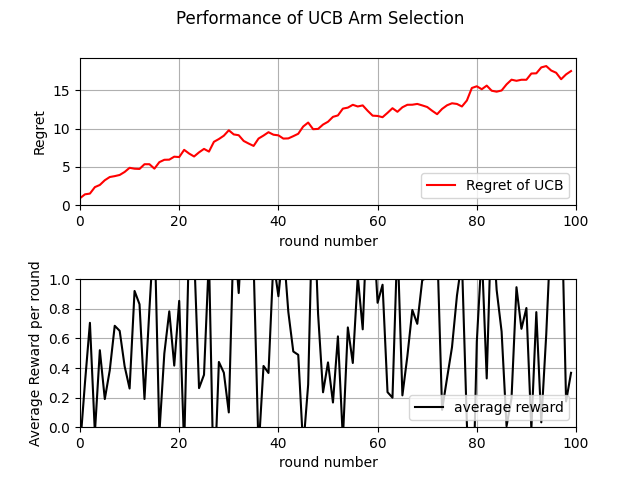
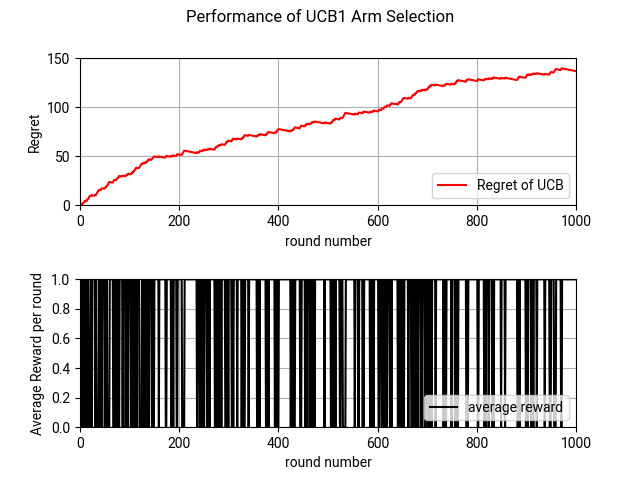
For presentation 14.Oct

diff --git a/double_loop.py b/double_loop.py
@@ -24,9 +24,9 @@ def argmax(arr):
   return arr.index(max(arr))
 
 
-def plot_regret(X, Y, cumulative_optimal_reward, cumulative_reward, average_reward_in_each_round, T):
+def plot_regret(X, Y, cumulative_optimal_reward, cumulative_reward, average_reward_in_each_round, T, algo_name):
   fig, axs = plt.subplots(2)  # get two figures, top is regret, bottom is average reward in each round
-  fig.suptitle('Performance of UCB Arm Selection')
+  fig.suptitle(f'Performance of {algo_name} Arm Selection')
   fig.subplots_adjust(hspace=0.5)
 
   axs[0].plot(X, Y, color='red', label='Regret of UCB')
@@ -106,10 +106,15 @@ def main():
   # arm10 = NormalArm(0.1, 1)
 
   arm1 = BernoulliArm(0.2)
-  arm2 = BernoulliArm(0.3)
-  arm3 = BernoulliArm(0.2)
-  arm4 = BernoulliArm(0.9)
-  arms = [arm1, arm2, arm3, arm4]
+  arm2 = BernoulliArm(0.5)
+  arm3 = BernoulliArm(0.9)
+  arm4 = BernoulliArm(0.4)
+  arm5 = BernoulliArm(0.4)
+  arm6 = BernoulliArm(0.3)
+  arm7 = BernoulliArm(0.2)
+  arm8 = BernoulliArm(0.1)
+  arms = [arm1, arm2, arm3, arm4, arm5, arm6, arm7, arm8]
+
   max_mu = max([arm.mu for arm in arms])
   n_arms = len(arms)
   print(f'Optimal arm: #{argmax([arm.mu for arm in arms]) + 1}')
@@ -123,22 +128,24 @@ def main():
   algo_exp3 = Exp3(.2, n_arms)
   algo_thompson = ThompsonSampling(n_arms)
 
-  algorithms = [algo_anneal_epsilon, algo_thompson]
+  algorithms = [algo_ucb1]
   algorithm_rewards = []  # 2D list[algo][t] (array of running avg. rewards for each algo at time-step t)
   algorithm_cum_rewards = []  # 2D list[algo][t] (array of cumulative rewards for each algo at time-step t)
   algorithm_arm_selections = []  # 2D list[algo][t] (array of arm selections for each algo at time-step t)
 
   # semi-global variables
   timesteps = 1000  # number of time-steps (T)
-  total_iteration = 10  # outer-loop
+  total_iteration = 1  # outer-loop
   reward_round_iteration = np.zeros((timesteps), dtype=int)
 
   for algo in algorithms:
+    print(algo.get_name())
     avg_rewards, cum_rewards, arm_selections = [0], [0], []
     new_avg = 0
 
     for i in range(total_iteration):
-      algo = AnnealingEpsilonGreedy(n_arms)  # reinitialize algorithm (clear previous memory)
+      # TODO: reinitialize this DYNAMICALLY!!
+      algo = UCB1(n_arms)  # reinitialize algorithm (clear previous memory)
       for t in range(timesteps):  # NOTE: 0 based? 1 based?
         chosen_arm = algo.select_arm()
         arm_selections.append(chosen_arm + 1)  # convert 0-based index to 1-based
@@ -170,7 +177,7 @@ def main():
     x_axis = np.zeros(timesteps, dtype=int)
     regrets = np.zeros(timesteps, dtype=float)  # regret for each round
 
-    print(average_reward_in_each_round)
+    # print(average_reward_in_each_round)
 
     for t in range(timesteps):
       x_axis[t] = t
@@ -179,7 +186,7 @@ def main():
       # print(f"{cumulative_optimal_reward} \t {cumulative_reward}")
       regrets[t] = cumulative_optimal_reward - cumulative_reward
 
-    plot_regret(x_axis, regrets, cumulative_optimal_reward, cumulative_reward, average_reward_in_each_round, timesteps)
+    plot_regret(x_axis, regrets, cumulative_optimal_reward, cumulative_reward, average_reward_in_each_round, timesteps, algo.get_name())
     print(f"The average regret for {algo.get_name()} is {cumulative_optimal_reward - cumulative_reward}")
 
   max_cum_reward = max([algorithm_cum_rewards[i][-1] for i in range(len(algorithms))])

diff --git a/restaurant.py b/restaurant.py
@@ -42,8 +42,11 @@ def plot_regret(X, Y, cumulative_optimal_reward, cumulative_reward, average_rewa
   axs[1].legend(loc='lower right')
   axs[1].set_xlim(0, T)
   axs[1].set_ylim(0, 1.0)
+
+  print(f"You will now see the regret/reward over the next {T} days")
   plt.savefig("./figures/restaurant_plot.png")
   plt.show()
+  print("Thank you and good-bye.")
 
 
 def plot_graph(timesteps, arms, algorithms, algorithm_rewards, algorithm_cum_rewards, algorithm_arm_selections, max_mu,
@@ -101,13 +104,15 @@ def get_inputs():
   for i in range(N):
     restaurant_names.append(input(f"Enter restaurant #{i+1} name: "))
 
-  ans = input("Do you know these restaurants well? [y/n]")
+  ans = input("Do you have the average ratings of these restaurants (Google Maps, OpenRice)? [y/n]: ")
   flag = True if ans.lower() == 'y' else False
 
   ratings = []  # act as mu later for arms
   if flag:
     for i in range(N):
       ratings.append(float(input(f"Please rate {restaurant_names[i]} between 0 and 1: ")))
+  else:
+    print("That's fine, we'll randomly initialise the restaurant ratings for you.")
 
   return N, T, flag, restaurant_names, ratings
 
@@ -124,7 +129,7 @@ def main():
   max_mu = max([arm.mu for arm in arms])
   n_arms = len(arms)
   optimal_index = argmax([arm.mu for arm in arms])
-  print(f'Best restaurant:, {restaurant_names[optimal_index]} (#{optimal_index + 1})')
+  print(f'Best restaurant: {restaurant_names[optimal_index]} (#{optimal_index + 1})')
 
   algo_epsilon = EpsilonGreedy(0.05, n_arms)
   algo_anneal_epsilon = AnnealingEpsilonGreedy(n_arms)
@@ -175,7 +180,7 @@ def main():
     # Compute average rewards for each iteration
     average_reward_in_each_round = np.zeros(timesteps, dtype=float)
 
-    print(reward_round_iteration)
+    # print(reward_round_iteration)
 
     # Calculate the values for one good 1000 rounds
     # Squash 200X1000 -> 1X1000
@@ -187,7 +192,7 @@ def main():
     x_axis = np.zeros(timesteps, dtype=int)
     regrets = np.zeros(timesteps, dtype=float)  # regret for each round
 
-    print("Average reward in each round:", average_reward_in_each_round)
+    # print("Average reward in each round:", average_reward_in_each_round)
 
     for t in range(timesteps):
       x_axis[t] = t
@@ -197,14 +202,15 @@ def main():
       regrets[t] = cumulative_optimal_reward - cumulative_reward
 
     plot_regret(x_axis, regrets, cumulative_optimal_reward, cumulative_reward, average_reward_in_each_round, timesteps)
-    print(f"The average regret for {algo.get_name()} is {cumulative_optimal_reward - cumulative_reward}")
+    # print(f"The average regret for {algo.get_name()} is {cumulative_optimal_reward - cumulative_reward}")
 
   max_cum_reward = max([algorithm_cum_rewards[i][-1] for i in range(len(algorithms))])
-  for i in range(len(algorithms)):
-    print(f"{algorithms[i].get_name()}: {algorithm_cum_rewards[i][-1]:.2f}")
+  # for i in range(len(algorithms)):
+  #   print(f"{algorithms[i].get_name()}: {algorithm_cum_rewards[i][-1]:.2f}")
 
-  plot_graph(timesteps, arms, algorithms, algorithm_rewards, algorithm_cum_rewards, algorithm_arm_selections, max_mu,
-             max_cum_reward)
+  # TODO: WIP
+  # plot_graph(timesteps, arms, algorithms, algorithm_rewards, algorithm_cum_rewards, algorithm_arm_selections, max_mu,
+  #            max_cum_reward)
   # plot_cum_rewards(algorithms, algorithm_cum_rewards, timesteps, max_cum_reward)
 
 

diff --git a/graph_demo.py b/graph_demo.py
@@ -103,9 +103,13 @@ def main():
   # arm10 = NormalArm(0.1, 1)
   arm1 = BernoulliArm(0.2)
   arm2 = BernoulliArm(0.5)
-  arm3 = BernoulliArm(0.4)
-  arm4 = BernoulliArm(0.9)
-  arms = [arm1, arm2, arm3, arm4]
+  arm3 = BernoulliArm(0.9)
+  arm4 = BernoulliArm(0.4)
+  arm5 = BernoulliArm(0.4)
+  arm6 = BernoulliArm(0.3)
+  arm7 = BernoulliArm(0.2)
+  arm8 = BernoulliArm(0.1)
+  arms = [arm1, arm2, arm3, arm4, arm5, arm6, arm7, arm8]
   n_arms = len(arms)
   print(f'Optimal arm: #{argmax([arm.mu for arm in arms]) + 1}')
   change_of_distribution = False
